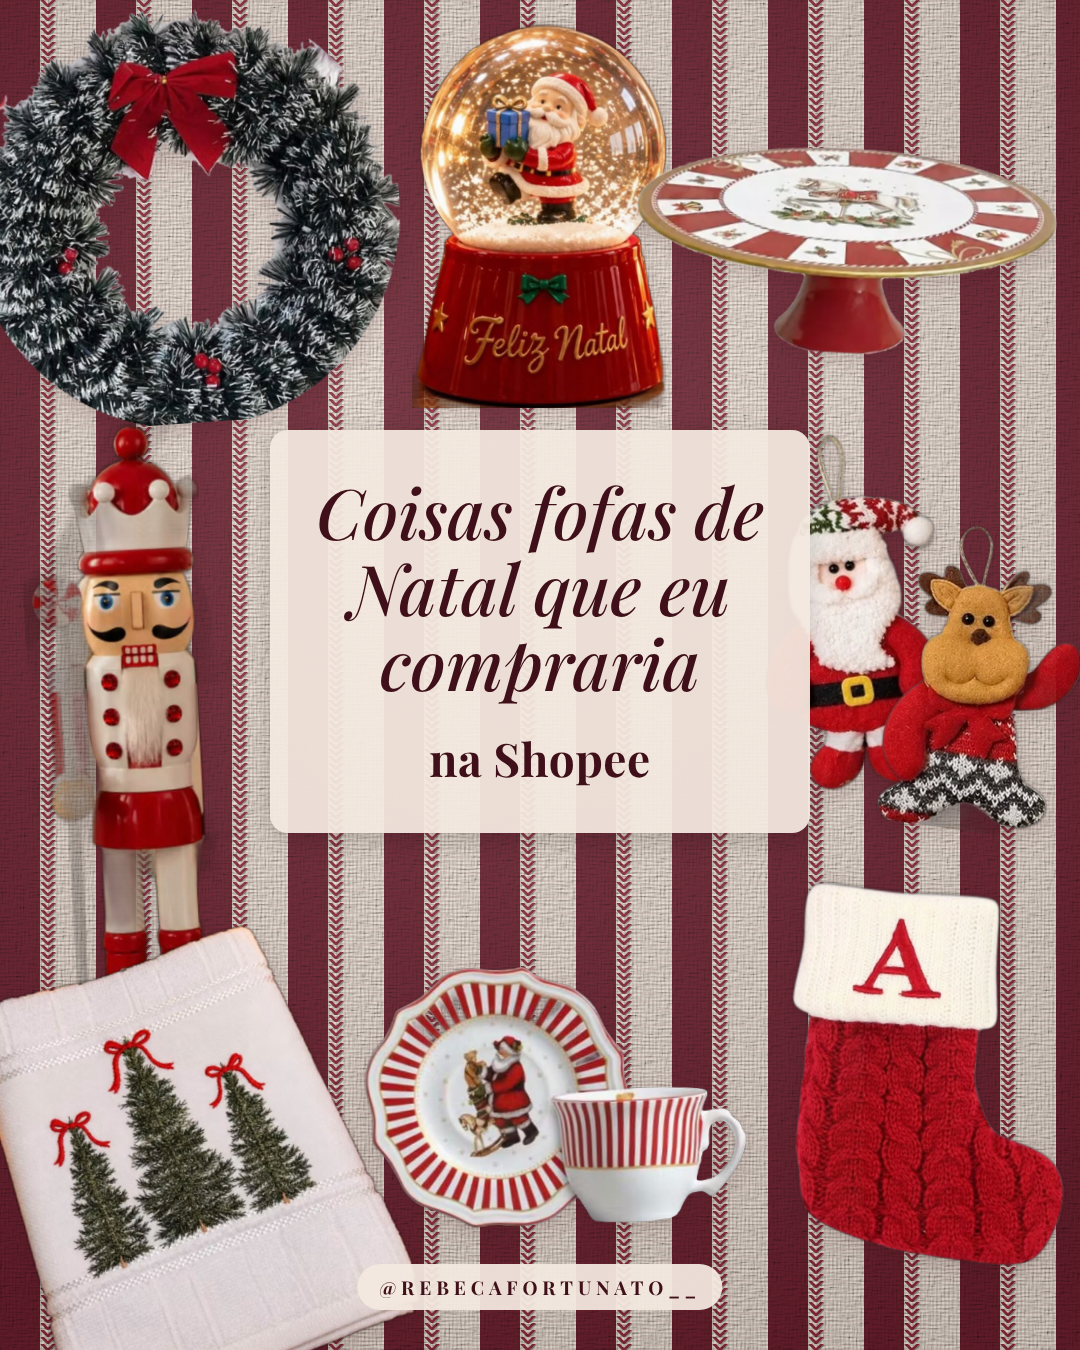
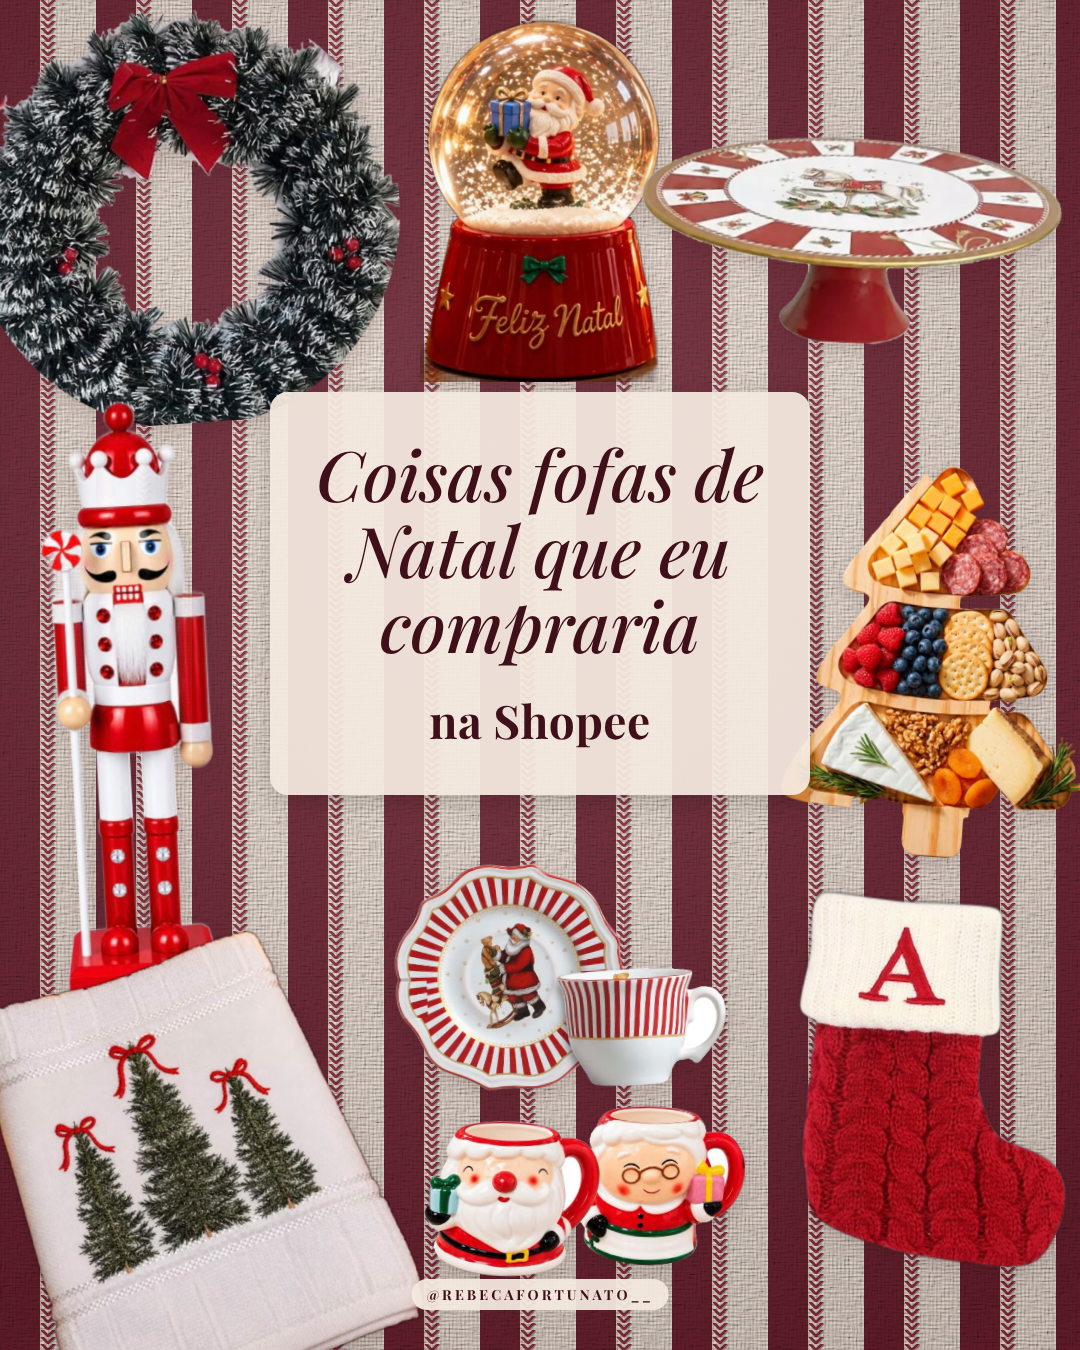
Achadinhos de Natal: 9 produtos com petisqueira e canecas, xícara de fundo branco
Claude-Session: https://claude.ai/code/session_01GVjzB1KzkYMHJxVq5zD7i2

diff --git a/insta/achadinhos-natal.html b/insta/achadinhos-natal.html
@@ -12,7 +12,7 @@ body{margin:0;background:#333}
 .at{position:absolute;left:0;right:0;bottom:46px;text-align:center;font-family:"PlayfairB";font-size:19px;letter-spacing:.26em;text-transform:uppercase}
 .prod{position:absolute;filter:drop-shadow(0 6px 10px rgba(60,20,25,.18))}
 .titulo{z-index:2}
-.at{z-index:2}
+.at{z-index:2;font-size:14px !important;letter-spacing:.22em !important}
 </style></head><body><div class="post" id="p1"><svg viewBox="0 0 1080 1350" width="1080" height="1350" style="position:absolute;inset:0">
 <defs>
   <pattern id="st1" width="96" height="7" patternUnits="userSpaceOnUse">
@@ -40,7 +40,7 @@ body{margin:0;background:#333}
 <rect width="1080" height="1350" filter="url(#relevo1)" style="mix-blend-mode:multiply" opacity=".55"/>
 </svg><div class="luz"></div>
 
-<img class="prod" src="achadinhos/recortes/03-guirlanda.png" style="left:-30px;top:8px;width:430px;height:415px;transform:rotate(-4deg)"><img class="prod" src="achadinhos/recortes/08-globo.png" style="left:412px;top:22px;width:255px;height:386px;transform:rotate(0deg)"><img class="prod" src="achadinhos/recortes/06-boleira.png" style="left:635px;top:148px;width:420px;height:205px;transform:rotate(3deg)"><img class="prod" src="achadinhos/recortes/05-quebra-nozes.png" style="left:32px;top:420px;width:205px;height:680px;transform:rotate(-3deg)"><img class="prod" src="achadinhos/recortes/02a-papai-noel.png" style="left:758px;top:432px;width:185px;height:356px;transform:rotate(-6deg)"><img class="prod" src="achadinhos/recortes/02b-rena.png" style="left:890px;top:528px;width:190px;height:304px;transform:rotate(8deg)"><img class="prod" src="achadinhos/recortes/07-xicara.png" style="left:365px;top:965px;width:380px;height:260px;transform:rotate(-2deg)"><img class="prod" src="achadinhos/recortes/04-toalha.png" style="left:-15px;top:931px;width:420px;height:458px;transform:rotate(-6deg)"><img class="prod" src="achadinhos/recortes/01-meia.png" style="left:785px;top:890px;width:290px;height:369px;transform:rotate(5deg)"><div class="titulo"><div class="s" style="color:#8E2A3A">Coisas fofas de Natal que eu compraria</div><div class="n" style="color:#6E1F2E">na Shopee</div></div>
+<img class="prod" src="achadinhos/recortes/03-guirlanda.png" style="left:-30px;top:8px;width:430px;height:415px;transform:rotate(-4deg)"><img class="prod" src="achadinhos/recortes/08-globo.png" style="left:420px;top:18px;width:240px;height:364px;transform:rotate(0deg)"><img class="prod" src="achadinhos/recortes/06-boleira.png" style="left:640px;top:138px;width:420px;height:205px;transform:rotate(3deg)"><img class="prod" src="achadinhos/recortes/05-quebra-nozes.png" style="left:48px;top:400px;width:163px;height:600px;transform:rotate(-3deg)"><img class="prod" src="achadinhos/recortes/09-petisqueira.png" style="left:790px;top:466px;width:300px;height:391px;transform:rotate(4deg)"><img class="prod" src="achadinhos/recortes/07-xicara.png" style="left:395px;top:862px;width:330px;height:226px;transform:rotate(-2deg)"><img class="prod" src="achadinhos/recortes/04-toalha.png" style="left:-10px;top:936px;width:420px;height:458px;transform:rotate(-6deg)"><img class="prod" src="achadinhos/recortes/10-canecas.png" style="left:425px;top:1104px;width:320px;height:175px;transform:rotate(2deg)"><img class="prod" src="achadinhos/recortes/01-meia.png" style="left:792px;top:899px;width:285px;height:362px;transform:rotate(5deg)"><div class="titulo"><div class="s" style="color:#8E2A3A">Coisas fofas de Natal que eu compraria</div><div class="n" style="color:#6E1F2E">na Shopee</div></div>
 <div class="at" style="color:#6E1F2E">@rebecafortunato__</div></div><div class="post" id="p2"><svg viewBox="0 0 1080 1350" width="1080" height="1350" style="position:absolute;inset:0">
 <defs>
   <pattern id="st2" width="96" height="7" patternUnits="userSpaceOnUse">
@@ -68,5 +68,5 @@ body{margin:0;background:#333}
 <rect width="1080" height="1350" filter="url(#relevo2)" style="mix-blend-mode:multiply" opacity=".55"/>
 </svg><div class="luz"></div>
 
-<img class="prod" src="achadinhos/recortes/03-guirlanda.png" style="left:-30px;top:8px;width:430px;height:415px;transform:rotate(-4deg)"><img class="prod" src="achadinhos/recortes/08-globo.png" style="left:412px;top:22px;width:255px;height:386px;transform:rotate(0deg)"><img class="prod" src="achadinhos/recortes/06-boleira.png" style="left:635px;top:148px;width:420px;height:205px;transform:rotate(3deg)"><img class="prod" src="achadinhos/recortes/05-quebra-nozes.png" style="left:32px;top:420px;width:205px;height:680px;transform:rotate(-3deg)"><img class="prod" src="achadinhos/recortes/02a-papai-noel.png" style="left:758px;top:432px;width:185px;height:356px;transform:rotate(-6deg)"><img class="prod" src="achadinhos/recortes/02b-rena.png" style="left:890px;top:528px;width:190px;height:304px;transform:rotate(8deg)"><img class="prod" src="achadinhos/recortes/07-xicara.png" style="left:365px;top:965px;width:380px;height:260px;transform:rotate(-2deg)"><img class="prod" src="achadinhos/recortes/04-toalha.png" style="left:-15px;top:931px;width:420px;height:458px;transform:rotate(-6deg)"><img class="prod" src="achadinhos/recortes/01-meia.png" style="left:785px;top:890px;width:290px;height:369px;transform:rotate(5deg)"><div class="titulo" style="background:rgba(243,233,223,.94);padding:44px 30px;border-radius:18px;left:270px;right:270px;top:430px;box-shadow:0 6px 24px rgba(0,0,0,.18)"><div class="s" style="color:#3F1019">Coisas fofas de Natal que eu compraria</div><div class="n" style="color:#3F1019">na Shopee</div></div>
-<div class="at" style="color:#3F1019;left:50%;right:auto;transform:translateX(-50%);background:rgba(243,233,223,.94);padding:10px 22px;border-radius:999px;bottom:40px">@rebecafortunato__</div></div></body></html>
+<img class="prod" src="achadinhos/recortes/03-guirlanda.png" style="left:-30px;top:8px;width:430px;height:415px;transform:rotate(-4deg)"><img class="prod" src="achadinhos/recortes/08-globo.png" style="left:420px;top:18px;width:240px;height:364px;transform:rotate(0deg)"><img class="prod" src="achadinhos/recortes/06-boleira.png" style="left:640px;top:138px;width:420px;height:205px;transform:rotate(3deg)"><img class="prod" src="achadinhos/recortes/05-quebra-nozes.png" style="left:48px;top:400px;width:163px;height:600px;transform:rotate(-3deg)"><img class="prod" src="achadinhos/recortes/09-petisqueira.png" style="left:790px;top:466px;width:300px;height:391px;transform:rotate(4deg)"><img class="prod" src="achadinhos/recortes/07-xicara.png" style="left:395px;top:862px;width:330px;height:226px;transform:rotate(-2deg)"><img class="prod" src="achadinhos/recortes/04-toalha.png" style="left:-10px;top:936px;width:420px;height:458px;transform:rotate(-6deg)"><img class="prod" src="achadinhos/recortes/10-canecas.png" style="left:425px;top:1104px;width:320px;height:175px;transform:rotate(2deg)"><img class="prod" src="achadinhos/recortes/01-meia.png" style="left:792px;top:899px;width:285px;height:362px;transform:rotate(5deg)"><div class="titulo" style="background:rgba(243,233,223,.94);padding:44px 30px;border-radius:18px;left:270px;right:270px;top:392px;box-shadow:0 6px 24px rgba(0,0,0,.18)"><div class="s" style="color:#3F1019">Coisas fofas de Natal que eu compraria</div><div class="n" style="color:#3F1019">na Shopee</div></div>
+<div class="at" style="color:#3F1019;left:50%;right:auto;transform:translateX(-50%);background:rgba(243,233,223,.94);padding:6px 15px;border-radius:999px;bottom:40px">@rebecafortunato__</div></div></body></html>

diff --git a/insta/achadinhos-natal.py b/insta/achadinhos-natal.py
@@ -7,18 +7,20 @@ R = "achadinhos/recortes/"
 # (arquivo, centro x, centro y, largura, giro, espelhar)
 ITENS = [
     ("03-guirlanda", 185, 215, 430, -4, False),
-    ("08-globo", 540, 215, 255, 0, False),
-    ("06-boleira", 845, 250, 420, 3, False),
-    ("05-quebra-nozes", 135, 760, None, -3, False),   # altura fixa, ver abaixo
-    ("07-xicara", 555, 1095, 380, -2, False),
-    ("04-toalha", 195, 1160, 420, -6, False),
-    ("01-meia", 930, 1075, 290, 5, False),
+    ("08-globo", 540, 200, 240, 0, False),
+    ("06-boleira", 850, 240, 420, 3, False),
+    ("05-quebra-nozes", 130, 700, None, -3, False),   # altura fixa, ver abaixo
+    ("09-petisqueira", 940, 662, 300, 4, False),
+    ("07-xicara", 560, 975, 330, -2, False),
+    ("04-toalha", 200, 1165, 420, -6, False),
+    ("10-canecas", 585, 1192, 320, 2, False),
+    ("01-meia", 935, 1080, 285, 5, False),
 ]
 from PIL import Image
 def tag(nome, cx, cy, w, giro, esp):
     iw, ih = Image.open(R + nome + ".png").size
     if w is None:
-        h = 680; w = round(h * iw / ih)
+        h = 600; w = round(h * iw / ih)
     else:
         h = round(w * ih / iw)
     t = f"rotate({giro}deg)" + (" scaleX(-1)" if esp else "")
@@ -30,7 +32,7 @@ for i, p in enumerate(posts[:2]):
     p = re.sub(r'<div class="ph"[^>]*>[^<]*</div>', "", p)
     p = p.replace("Achadinhos de Natal que eu compraria pra minha casa", "Coisas fofas de Natal que eu compraria")
     p = p.replace('<div class="titulo"', imgs + '<div class="titulo"', 1)
-    p = p.replace("padding:10px 22px", "padding:6px 15px")  # @ menorzinho, sem chamar atenção
+    p = p.replace("padding:10px 22px", "padding:6px 15px").replace("top:430px", "top:392px").replace("top:450px", "top:410px")  # @ menorzinho, sem chamar atenção
     out.append(p)
 css = ".prod{position:absolute;filter:drop-shadow(0 6px 10px rgba(60,20,25,.18))}\n.titulo{z-index:2}\n.at{z-index:2;font-size:14px !important;letter-spacing:.22em !important}\n"
 head = head.replace("</style>", css + "</style>")

diff --git a/insta/achadinhos/links.md b/insta/achadinhos/links.md
@@ -10,7 +10,7 @@ ID de afiliada da Rebeca na Shopee: an_18337811366 (todo link tem que levar esse
 | 4 | Toalha branca bordada com pinheirinhos e laços | https://s.shopee.com.br/2gCPIewoR3 | produtos/04-toalha-pinheiros.jpg |
 | 5 | Soldadinho quebra-nozes vermelho e branco | https://s.shopee.com.br/7puVSGilwJ | produtos/05-quebra-nozes.jpg, produtos/05-quebra-nozes-fundo-branco.jpg (usada na arte) |
 | 6 | Boleira de Natal com pé vermelho e prato listrado | https://s.shopee.com.br/3VlWIVLESS | produtos/06-boleira-natal.jpg, produtos/06-boleira-natal-sozinha.webp (melhor pra recortar) |
-| 7 | Jogo de xícaras com pires listrados e Papai Noel | https://s.shopee.com.br/8Kqm3Trg3V | produtos/07-xicaras-papai-noel.jpg |
+| 7 | Jogo de xícaras com pires listrados e Papai Noel | https://s.shopee.com.br/8Kqm3Trg3V | produtos/07-xicaras-papai-noel.jpg, produtos/07-xicara-fundo-branco.jpg (usada na arte) |
 | 8 | Globo de neve com Papai Noel, base vermelha Feliz Natal | https://s.shopee.com.br/4fxTh654F4 | produtos/08-globo-de-neve.jpg |
-| 9 | Petisqueira de madeira em formato de árvore de Natal | https://s.shopee.com.br/8pn2hsHBFg | (foto pendente) |
-| 10 | Canecas Papai Noel e Mamãe Noel | https://s.shopee.com.br/8VACIirq3O | (foto pendente) |
+| 9 | Petisqueira de madeira em formato de árvore de Natal | https://s.shopee.com.br/8pn2hsHBFg | produtos/09-petisqueira-arvore.jpg |
+| 10 | Canecas Papai Noel e Mamãe Noel | https://s.shopee.com.br/8VACIirq3O | produtos/10-canecas-noel.jpg |
